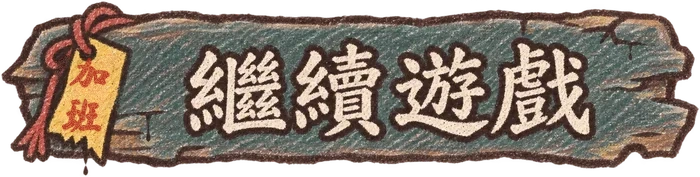
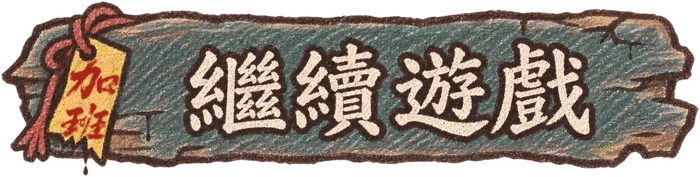
art-title: 加班毛筆吊牌按鈕定稿（btn_new2/btn_cont2）＋封面四款原圖
Claude-Session: https://claude.ai/code/session_01UmiVpBUSdcJGCAQBc3ByBF

Changed region(s): [[0.09, 0.3107, 0.18, 0.791]]

diff --git a/art/title/btn/mk2.py b/art/title/btn/mk2.py
@@ -1,0 +1,37 @@
+# 用 ChatGPT 生成的真毛筆「加班」作字形遮罩，貼到黃牌上
+import sys, numpy as np, cv2
+from PIL import Image
+src,dst,rot,ox,oy,H = sys.argv[1],sys.argv[2],float(sys.argv[3]),int(sys.argv[4]),int(sys.argv[5]),int(sys.argv[6])
+raw=np.array(Image.open('jiaban_brush_raw.png').convert('RGB')).astype(np.float32)
+# 紅墨濃度：1 - (G 通道/255)，白紙＝0
+ink=np.clip((255-raw[:,:,1])/255*1.25-0.08,0,1)
+ink[:, :] *= (raw[:,:,0]>120)   # 只取紅色
+ys,xs=np.where(ink>0.15); ink=ink[ys.min():ys.max()+1, xs.min():xs.max()+1]
+h,w=ink.shape; W=int(round(w*H/h))
+m=cv2.resize(ink,(W,H),interpolation=cv2.INTER_AREA)
+M=cv2.getRotationMatrix2D((W/2,H/2),rot,1.0)
+c,s=abs(M[0,0]),abs(M[0,1]); nW,nH=int(H*s+W*c)+2,int(H*c+W*s)+2
+M[0,2]+=nW/2-W/2; M[1,2]+=nH/2-H/2
+m=cv2.warpAffine(m,M,(nW,nH))
+# 原圖去舊字
+im=Image.open(src).convert('RGBA'); a=np.array(im); rgb=a[:,:,:3].astype(int)
+x0,y0,x1,y1=56,56,124,152
+reg=rgb[y0:y1,x0:x1]; red=(reg[:,:,0]>140)&(reg[:,:,1]<120)&(reg[:,:,0]-reg[:,:,1]>60)
+mask=np.zeros(rgb.shape[:2],np.uint8); mask[y0:y1,x0:x1][red]=255
+mask=cv2.dilate(mask,np.ones((3,3),np.uint8),2)
+fix=cv2.inpaint(cv2.cvtColor(a[:,:,:3],cv2.COLOR_RGB2BGR),mask,5,cv2.INPAINT_TELEA)
+yel=cv2.cvtColor(fix,cv2.COLOR_BGR2RGB).astype(np.float32)
+noise=np.random.RandomState(3).normal(0,9,yel.shape[:2])[:,:,None]
+yel=np.where((mask>0)[:,:,None],np.clip(yel+noise,0,255),yel)
+# 只在黃牌範圍內上墨（牌外不畫），墨色：朱紅，深淺跟原筆觸
+tag=(yel[:,:,0]>150)&(yel[:,:,1]>120)&(yel[:,:,2]<140)&(a[:,:,3]>200)
+tag=cv2.erode(tag.astype(np.uint8),np.ones((3,3),np.uint8),1).astype(np.float32)
+full=np.zeros(yel.shape[:2],np.float32)
+hh,ww=m.shape; Y0,X0=oy-hh//2,ox-ww//2
+full[Y0:Y0+hh,X0:X0+ww]=m
+full*=cv2.GaussianBlur(tag,(0,0),1.0)
+ink_col=np.array([165,26,18],np.float32)
+o=yel*(1-full[:,:,None]*0.95)+ink_col*full[:,:,None]*0.95
+out=a.copy(); out[:,:,:3]=np.clip(o,0,255).astype(np.uint8)
+Image.fromarray(out).save(dst,'WEBP',quality=95,method=6)
+Image.fromarray(out).crop((40,0,160,177)).resize((360,531)).save(dst+'.tag.png')
